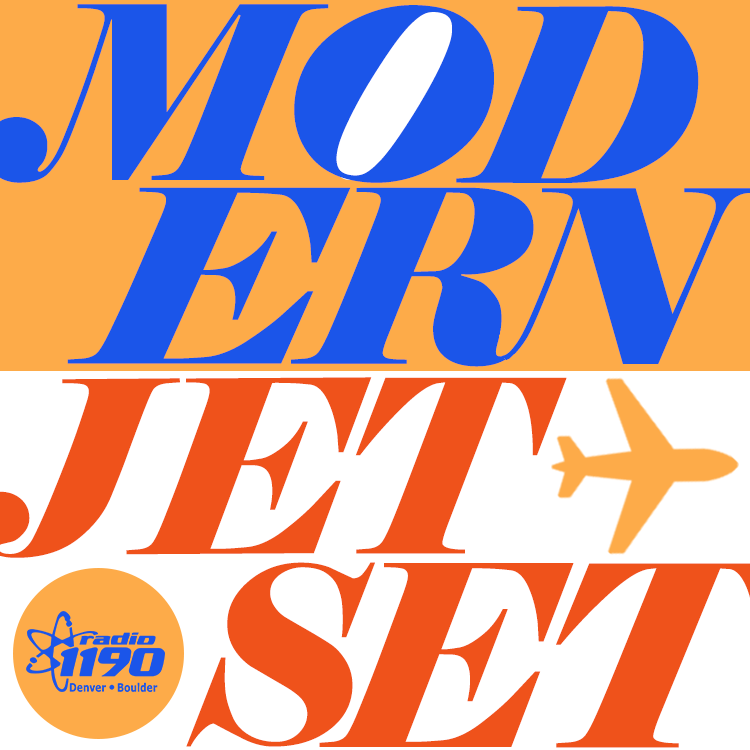
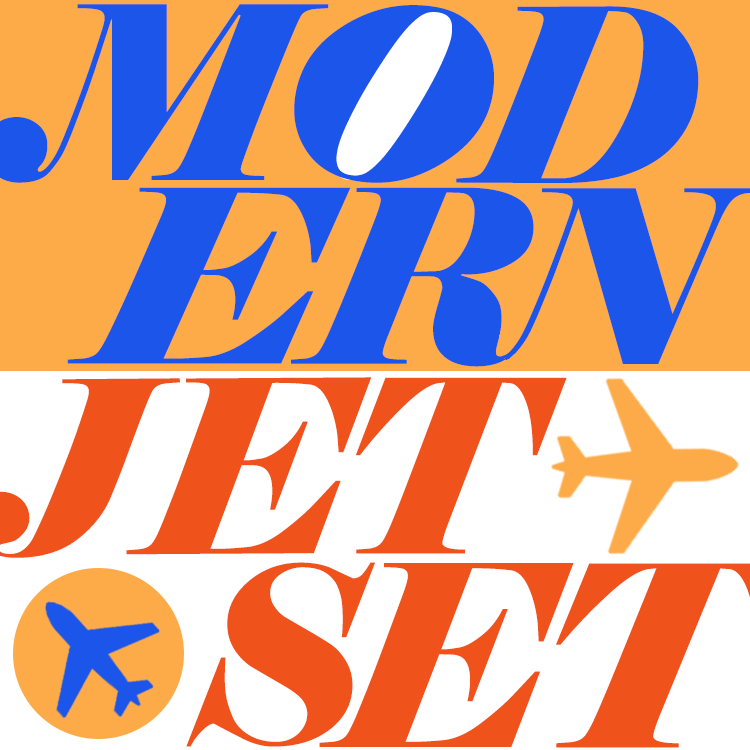
content: update for Modern Jetset on PRX

Changed region(s): [[0.0307, 0.7973, 0.2453, 0.9507]]

diff --git a/src/App.js b/src/App.js
@@ -18,20 +18,19 @@ class App extends Component {
             <div className="grid-item-outer"><div className="grid-item-inner grid-img-afterfm"><a href="http://www.afterfm.com/irisberkeley" target="_blank" rel="noopener noreferrer"><img src="img/overlay-afterfm.png" alt="KGNU shows" className="grid-img-overlay" /></a></div></div>
             <div className="grid-item-outer"><div className="grid-item-inner grid-img-modern-jetset"><a href="https://modernjetset.com" target="_blank" rel="noopener noreferrer"><img src="img/overlay-modern-jetset.png" alt="Modern Jetset" className="grid-img-overlay" /></a></div></div>
             <div className="grid-item-outer"><div className="grid-item-inner grid-img-interface-message-processor"><a href="https://www.mixcloud.com/irisberkeley/playlists/interface-message-processor/" target="_blank" rel="noopener noreferrer"><img src="img/overlay-interface-message-processor.png" alt="Interface Message Processor" className="grid-img-overlay" /></a></div></div>
-            <div className="grid-item-outer"><div className="grid-item-inner"><img src={evileye} className="evil-eye" alt="Evil-eye logo" /></div></div>
+            <div className="grid-item-outer"><div className="grid-item-inner"><img src={evileye} className="evil-eye" alt="You spin me right round, baby, right round" /></div></div>
             <div className="grid-item-outer"><div className="grid-item-inner grid-img-cover-up"><a href="https://www.mixcloud.com/irisberkeley/playlists/the-cover-up-radio-1190/" target="_blank" rel="noopener noreferrer"><img src="img/overlay-cover-up.png" alt="The Cover-Up" className="grid-img-overlay" /></a></div></div>
-            <div className="grid-item-outer"><div className="grid-item-inner grid-img-other-programs"><a href="https://www.mixcloud.com/irisberkeley/uploads/" target="_blank" rel="noopener noreferrer"><img src="img/overlay-other-shows.png" alt="Other shows" className="grid-img-overlay" /></a></div></div>
+            <div className="grid-item-outer"><div className="grid-item-inner grid-img-other-programs"><a href="https://www.mixcloud.com/irisberkeley" target="_blank" rel="noopener noreferrer"><img src="img/overlay-other-shows.png" alt="Other shows" className="grid-img-overlay" /></a></div></div>
             <div className="grid-item-outer"><div className="grid-item-inner grid-img-instagram"><a href="https://www.instagram.com/irisberkeley" target="_blank" rel="noopener noreferrer"><img src="img/overlay-instagram.png" alt="Instagram" className="grid-img-overlay" /></a></div></div>
             <div className="grid-item-outer"><div className="grid-item-inner grid-img-contact" onClick={()=>{ document.getElementById('text-contact').style.display = 'block'; document.getElementById('grid-container').style.display = 'none'; }}><img src="img/overlay-contact.png" alt="Contact info" className="grid-img-overlay" /></div></div>
           </div>
 
           <div id="text-about">
             <img src="img/about.jpg" alt="Iris Berkeley" />
-            <p><em>Things may come and things may go, but the art school dance goes on forever ...</em></p>
-            <p>Iris Berkeley likes to connect the dots: between the music she grew up with and some fab new album from last week, between your favorite song and something you’ve never heard before, between local darlings and sounds from halfway around the world. In 2022, she was voted Readers' Choice for <a href="https://www.westword.com/best-of/2022" target="_blank" rel="noopener noreferrer">Best Radio DJ</a> in Westword's Best of Denver poll.</p>
-            <p>On the radio, find Iris on <a href="http://www.kgnu.org" target="_blank" rel="noopener noreferrer">KGNU-FM</a> and <a href="http://www.radio1190.org" target="_blank" rel="noopener noreferrer">Radio 1190</a> (geographically in Boulder, Colorado USA but of course streaming everywhere), plus online on Radio Rethink's <a href="https://www.radiorethink.com/index.cfm/fuseaction/rr.page/pageID/projects-channelone-eclectic.html" target="_blank" rel="noopener noreferrer">Channel One</a>.</p>
-            <p>In person, find Iris all over North America at anything from private parties to fashion events to dance festivals. She's tickled to jump on a plane, too; summer 2019 found her in residency on Susak, Croatia.</p>
-            <p>Anything is fair game when she’s behind the decks, but no matter where it goes, it’ll be a fun ride. </p>
+            <p><strong>Iris Berkeley likes to connect the dots</strong> &mdash; between deep cuts from the distant past and fresh new releases, between your favorite song and something fab you’ve never heard before, between local darlings and unexpected sounds from halfway around the world.</p>
+            <p>She’s been making music shows in some form or another since 1997, including the launch of the late, great <a href="https://web.archive.org/web/20010412174514fw_/http://ucsu.colorado.edu/~schillij/kucb.html" target="_blank" rel="noopener noreferrer">KVCU Radio 1190</a> (Boulder, Colo.) way back in 1998 and a regular slot on the Afternoon Sound Alternative on <a href="http://www.kgnu.org" target="_blank" rel="noopener noreferrer">KGNU</a> (Boulder/Denver, Colo.) since 2019. In 2022, she was voted <strong>Readers' Choice for <a href="https://www.westword.com/best-of/2022" target="_blank" rel="noopener noreferrer">Best Radio DJ</a></strong> in Westword's Best of Denver poll.</p>
+            <p>Since 2020, she's been the <strong>host and producer of <a href="https://modernjetset.com" target="_blank" rel="noopener noreferrer">Modern Jetset</a></strong>, a syndicated hour-long weekly program with a focus on eclectic new releases and the vintage influences that feed them. Listen live every week on Radio Rethink's <a href="https://www.radiorethink.com/index.cfm/fuseaction/rr.page/pageID/projects-channelone-eclectic.html" target="_blank" rel="noopener noreferrer">Channel One</a> and KGNU's <a href="http://www.afterfm.com/irisberkeley" target="_blank" rel="noopener noreferrer">AfterFM</a> ... or <strong>grab it for free for your own station</strong> from <a href="https://exchange.prx.org/series/42347-modern-jetset" target="_blank" rel="noopener noreferrer">PRX</a>.</p>
+            <p>In person, find Iris all over the globe playing music from funk to lounge to jazz to freeform pop at a variety of events big and small. Anything is fair game when she’s behind the decks, but no matter where it goes, <strong>it’s guaranteed to be a fun ride.</strong></p>
             <center><button onClick={()=>{ document.getElementById('text-about').style.display = 'none'; document.getElementById('grid-container').style.display = 'flex'; }}>Go back</button></center>
           </div>
 
